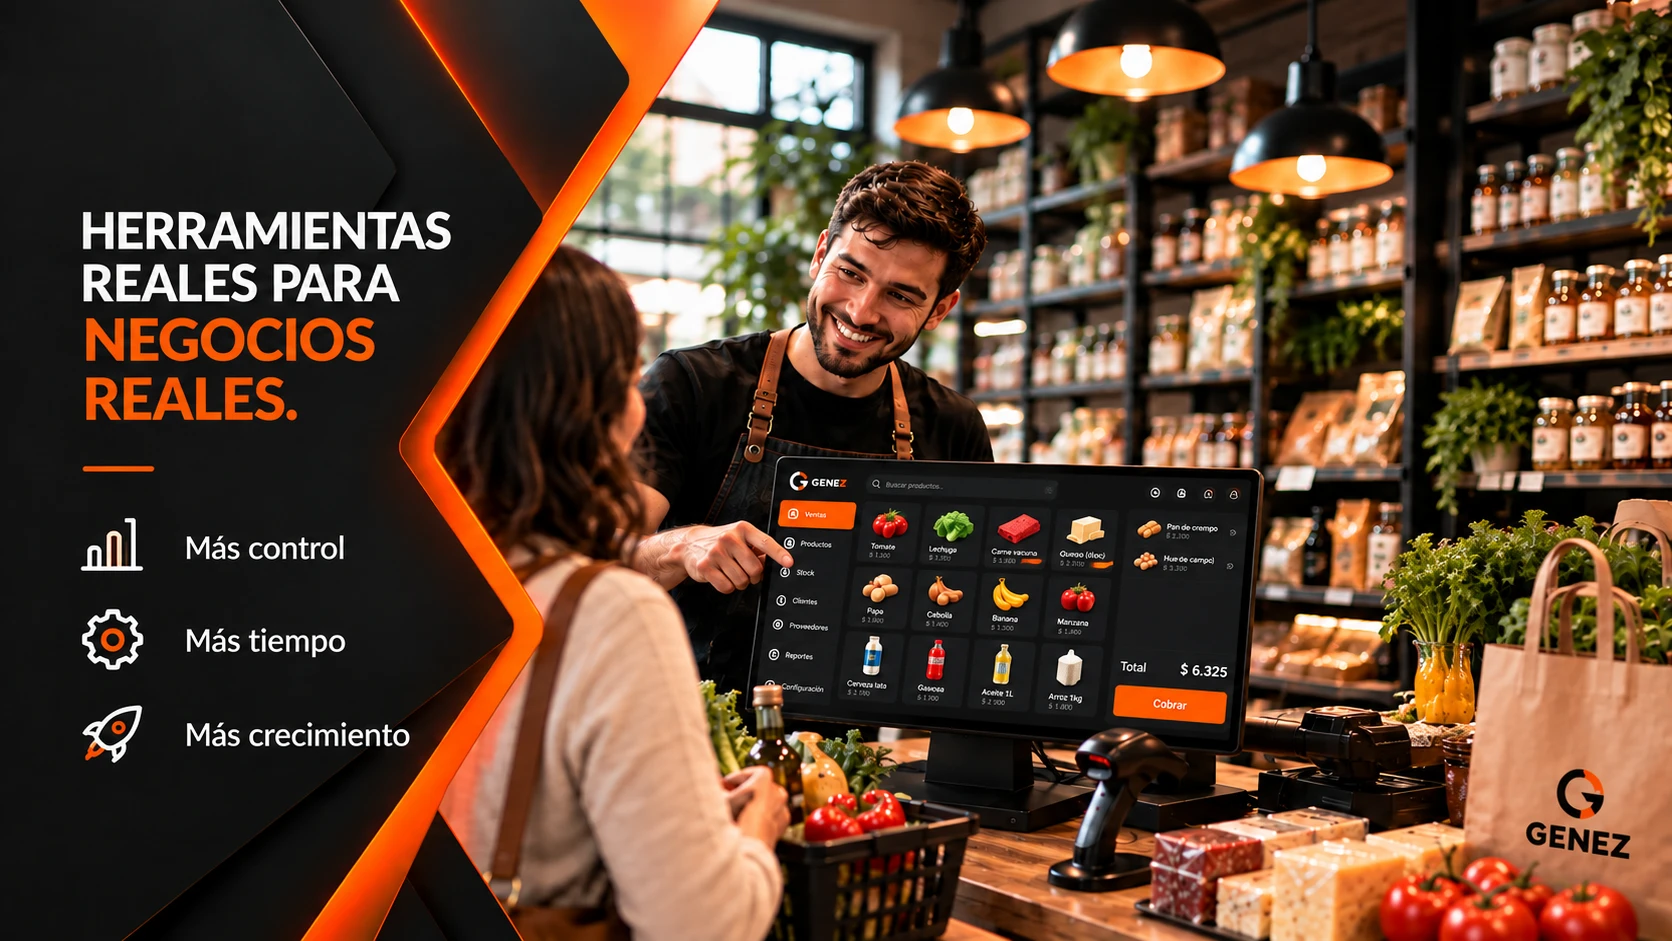
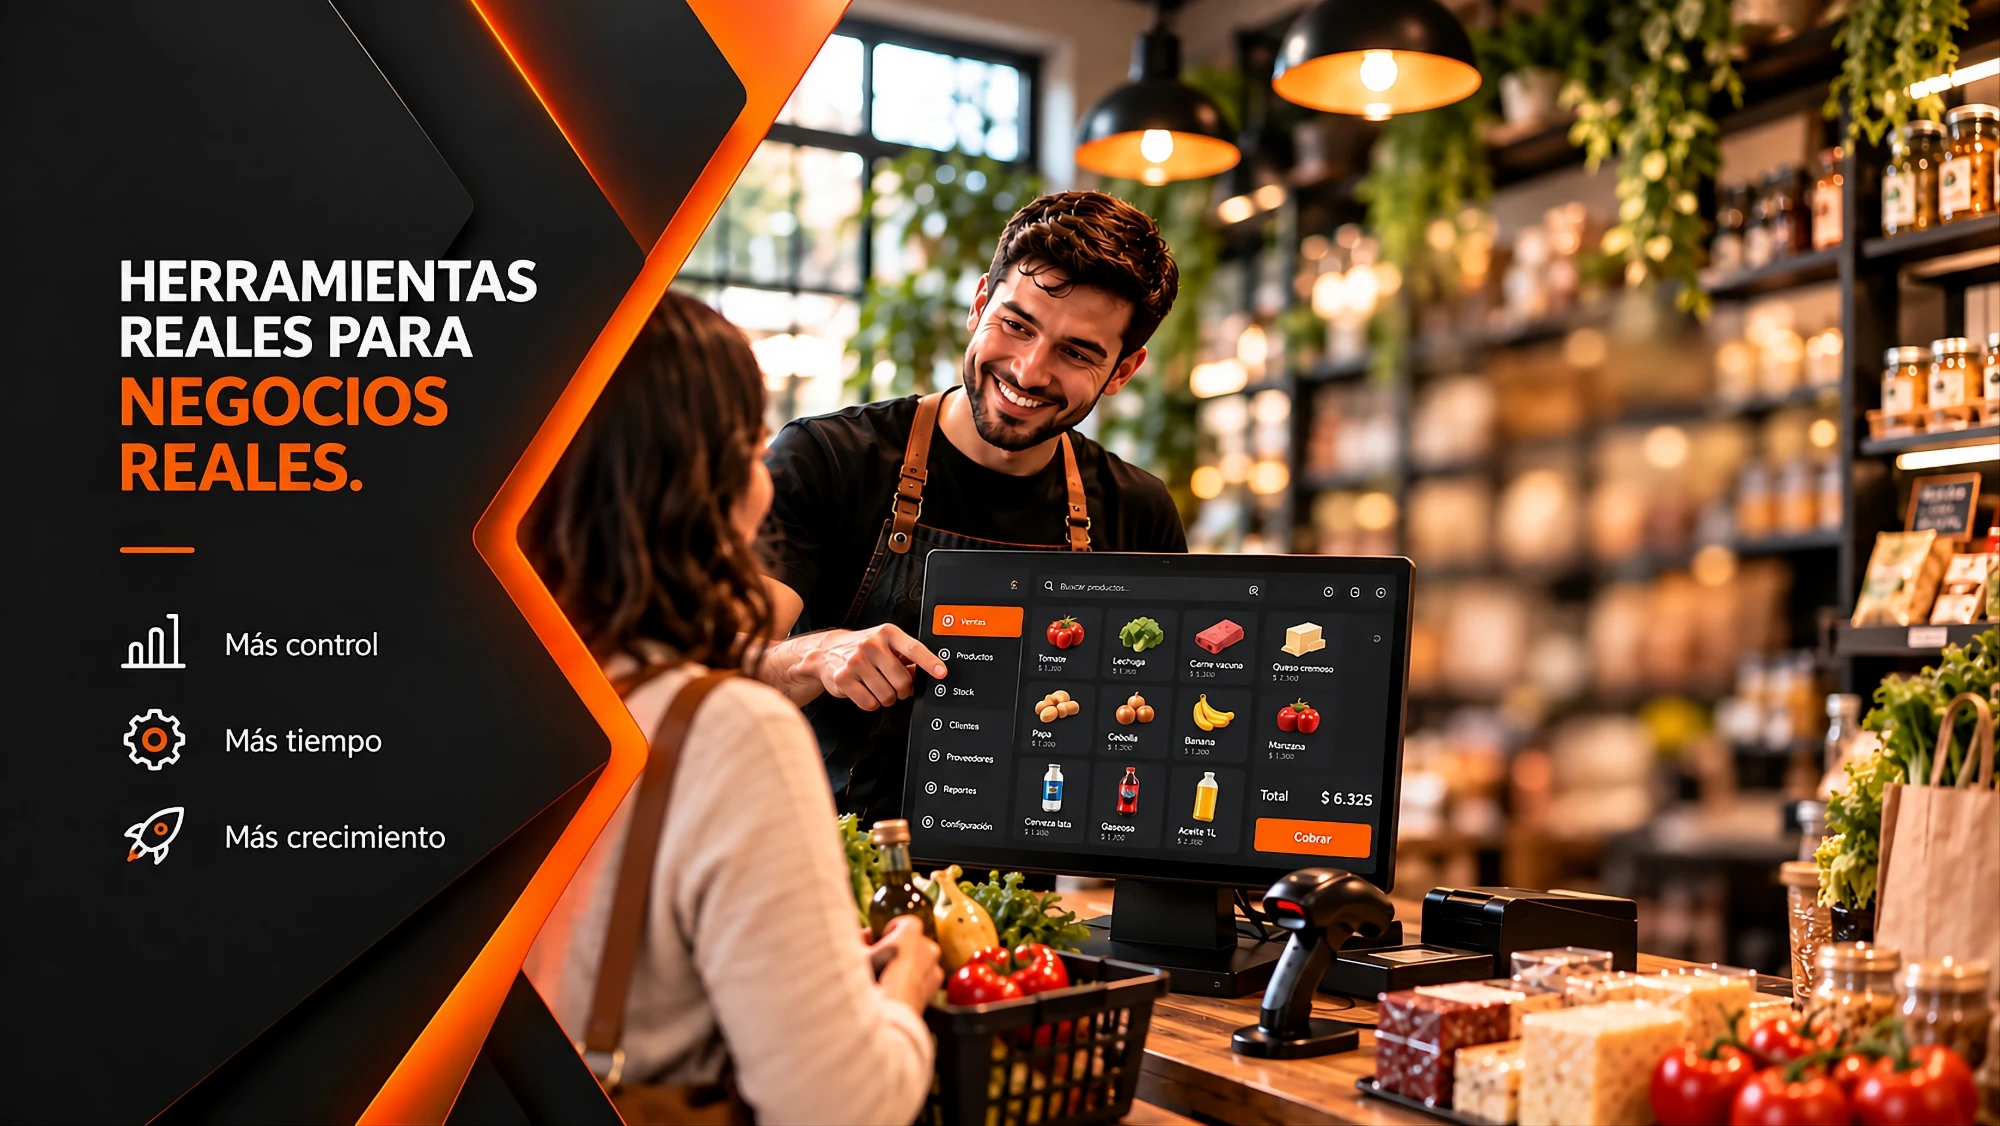
Login: la imagen nueva de Nehuen, tal cual, y la tarjeta encima
Nehuen rehizo el diseño (03/10) como pedimos: 2000x1126, el panel y el
texto más chicos, sin la tarjeta y con la derecha despejada entre el 64
y el 92% del ancho. Dibujar el panel en el código no quedaba como su
diseño; con la imagen bien armada no hace falta.

- Se va el panel en SVG y el texto en código (y los colores
  --sobre-foto, que eran para ese texto). La imagen va de borde a borde
  (object-left: en pantallas más angostas se recorta la derecha) y la
  tarjeta real encima, a 9vw del borde.
- A 1920 la imagen se muestra apenas más chica que su tamaño: nítida.
- Foto del login, en el panel, ahora pide el diseño entero con la zona
  de la tarjeta libre, no la escena sola.

Verificado en la pantalla de pruebas: a 1920x950 la tarjeta cae entre
el 71 y el 91% del ancho de la imagen, adentro de la zona libre; a
1280x720 también. Build sin errores.

diff --git a/src/genez/Entrada.jsx b/src/genez/Entrada.jsx
@@ -2,29 +2,25 @@
    LA PANTALLA DE ENTRADA · el marco del login y de "contraseña nueva"
    ============================================================
 
-   La maqueta del 03/10: una foto del local, un panel oscuro a la
-   izquierda con el borde naranja en flecha, el texto y tres puntos, y la
-   tarjeta blanca a la derecha. Armada en capas:
+   El diseño de Nehuen (03/10) es una imagen: la foto del local con el
+   panel oscuro, la flecha naranja y el texto ya armados, sin la tarjeta
+   (public/login/fondo-oscuro.webp, 2000x1126). Va de borde a borde tal
+   cual, y encima la tarjeta, que es de verdad.
 
-   1. La foto del local, de borde a borde. La sube Genez desde su panel
-      (src/datos/imagenLogin.js, 0128); si no hay, la de la maqueta.
-   2. El panel, dibujado entero en SVG: el fondo oscuro, las facetas, la
-      banda naranja y su brillo. No depende de la foto, así que cualquier
-      foto del local queda bien.
-   3. El texto, escrito de verdad.
-   4. La tarjeta, real, con `.tema-claro`: blanca aunque el sistema esté en
-      oscuro, sin escribir colores a mano.
+   Antes se probó dibujar el panel y escribir el texto en el código, para
+   poder achicarlos sin tocar la imagen: no quedaba como el diseño. La
+   imagen se hizo de nuevo con el texto más chico y la derecha despejada
+   (entre el 64 y el 92% del ancho), que es donde va la tarjeta.
 
-   El panel, el texto y la foto se miden contra una caja de 16:9 que cubre
-   la pantalla (--w). La foto de la maqueta es 16:9 y trae su propio panel
-   pegado: así el dibujado cae justo encima y lo tapa, banda incluida (la
-   del dibujo es más ancha a propósito; ver BANDA).
+   - Recortada desde la derecha (object-left): en una pantalla más
+     angosta que 16:9 se pierden estantes, nunca el panel ni el texto.
+   - La puede reemplazar Genez desde su panel (Foto del login, 0128) por
+     otra con el mismo diseño; si no hay, o no carga, queda esta.
+   - La tarjeta lleva `.tema-claro`: blanca aunque el sistema esté en
+     oscuro, sin escribir colores a mano.
+   - En el celular la imagen no entra: el texto va arriba y la tarjeta
+     abajo, sobre el fondo del tema.
 
-   Por qué así (pedidos de Nehuen del 03/10): la foto sola de borde a
-   borde dejaba el texto enorme; achicada, quedaban franjas; y tiene que
-   parecerse a la maqueta y poder cambiarse la foto por una mejor.
-
-   En el celular el panel no entra: el texto va arriba y la tarjeta abajo.
    La versión clara de la pantalla viene después. */
 
 import React, { useState } from "react";
@@ -38,95 +34,26 @@ const PUNTOS = [
   { icono: Rocket, texto: "Más crecimiento" },
 ];
 
-/* El centro de la banda naranja, en las coordenadas de la caja (1672x941).
-   Sale de relevar la de la foto de la maqueta fila por fila: arranca
-   arriba en 668, llega a la punta de la flecha en (424, 450), vuelve a
-   (530, 630) y termina abajo en 327. Con 52 de ancho cubre la de la foto
-   en todas las filas, así no se ven dos bandas. */
-const BANDA = "668,0 620,125 571,200 508,300 445,400 424,450 448,500 516,600 530,630 520,650 488,700 430,800 358,900 329,941";
-const PANEL = `0,0 ${BANDA} 0,941`;
-
-/* Los tamaños van contra el ancho de la caja: el texto siempre cae en el
-   mismo lugar del panel. */
-const T = (k) => `calc(var(--w) * ${k})`;
-
-function Panel() {
-  return (
-    <svg viewBox="0 0 1672 941" className="absolute inset-0 w-full h-full overflow-visible" aria-hidden="true">
-      <defs>
-        <linearGradient id="entrada-fondo" x1="0" y1="0" x2="0.55" y2="1">
-          <stop offset="0" stopColor="#1f1f1f" />
-          <stop offset="0.5" stopColor="#151515" />
-          <stop offset="1" stopColor="#0b0b0b" />
-        </linearGradient>
-        <linearGradient id="entrada-faceta" x1="0" y1="0" x2="1" y2="1">
-          <stop offset="0" stopColor="#2c2c2c" stopOpacity="0.95" />
-          <stop offset="1" stopColor="#2c2c2c" stopOpacity="0" />
-        </linearGradient>
-        <linearGradient id="entrada-banda" x1="0" y1="0" x2="0" y2="1">
-          <stop offset="0" stopColor="#ff8a2a" />
-          <stop offset="0.48" stopColor="#ff6a10" />
-          <stop offset="1" stopColor="#f24e00" />
-        </linearGradient>
-        <filter id="entrada-brillo" x="-20%" y="-20%" width="140%" height="140%">
-          <feGaussianBlur stdDeviation="22" />
-        </filter>
-      </defs>
-
-      {/* El brillo va primero: se derrama sobre la foto, detrás de todo. */}
-      <polyline points={BANDA} fill="none" stroke="#ff5a00" strokeOpacity="0.55" strokeWidth="96" strokeLinejoin="miter" filter="url(#entrada-brillo)" />
-
-      <polygon points={PANEL} fill="url(#entrada-fondo)" />
-      <polygon points="0,0 398,0 472,100 262,360 0,360" fill="url(#entrada-faceta)" />
-      <polygon points="0,560 300,560 420,941 0,941" fill="#000" fillOpacity="0.2" />
-      <line x1="400" y1="0" x2="472" y2="100" stroke="#ff6a1a" strokeOpacity="0.55" strokeWidth="4" />
-
-      <polyline points={BANDA} fill="none" stroke="url(#entrada-banda)" strokeWidth="52" strokeLinejoin="miter" strokeMiterlimit="8" />
-      {/* El filo claro del lado de adentro, que le da el relieve. */}
-      <polyline points={BANDA} fill="none" stroke="#ffc08a" strokeOpacity="0.7" strokeWidth="3" strokeLinejoin="miter" strokeMiterlimit="8" transform="translate(-24 0)" />
-    </svg>
-  );
-}
-
-/* La foto subida, y si no hay o no carga, la de la maqueta. Arranca
-   invisible y aparece al cargar, así no se ve una foto y después otra. */
-function Foto() {
+/* La imagen subida, y si no hay o no carga, la de fábrica. Arranca
+   invisible y aparece al cargar, así no se ve una y después otra. */
+function Fondo() {
   const [src, setSrc] = useState(() => urlFotoLogin() || FOTO_DE_FABRICA);
   const [lista, setLista] = useState(false);
   return (
     <img src={src} alt="" aria-hidden="true"
       onLoad={() => setLista(true)}
       onError={() => { if (src !== FOTO_DE_FABRICA) setSrc(FOTO_DE_FABRICA); }}
-      className={`absolute inset-0 w-full h-full max-w-none object-cover transition-opacity duration-500 ${lista ? "opacity-100" : "opacity-0"}`} />
+      className={`hidden lg:block absolute inset-0 w-full h-full max-w-none object-cover object-left transition-opacity duration-500 ${lista ? "opacity-100" : "opacity-0"}`} />
   );
 }
 
 export function MarcoEntrada({ children }) {
   return (
-    <div className="relative min-h-screen bg-fondo text-texto overflow-hidden" style={{ "--w": "max(100vw, calc(100vh * 1.7768))" }}>
-      <div className="hidden lg:block absolute left-0 top-1/2 -translate-y-1/2 w-[var(--w)] aspect-[1672/941]">
-        <Foto />
-        <Panel />
-      </div>
-
-      {/* El texto del panel, en la computadora. */}
-      <div className="hidden lg:block absolute top-1/2 -translate-y-1/2 text-sobre-foto" style={{ left: T(0.052) }}>
-        <h1 className="f-d font-extrabold uppercase leading-[1.03] tracking-[-0.01em]" style={{ fontSize: T(0.024) }}>
-          Herramientas<br />reales para<br /><span className="text-acento">negocios<br />reales.</span>
-        </h1>
-        <span className="block h-[3px] bg-acento" style={{ width: T(0.04), marginTop: T(0.02) }} aria-hidden="true" />
-        <ul style={{ marginTop: T(0.022) }}>
-          {PUNTOS.map(({ icono: I, texto }) => (
-            <li key={texto} className="flex items-center text-sobre-foto-suave" style={{ gap: T(0.013), marginTop: T(0.014), fontSize: T(0.0138) }}>
-              <I className="text-acento shrink-0" strokeWidth={1.6} style={{ width: T(0.02), height: T(0.02) }} />
-              {texto}
-            </li>
-          ))}
-        </ul>
-      </div>
+    <div className="relative min-h-screen bg-fondo text-texto overflow-hidden">
+      <Fondo />
 
       <div className="relative z-10 min-h-screen flex flex-col lg:block">
-        {/* En el celular, el mismo texto arriba de la tarjeta. */}
+        {/* En el celular, el texto de la imagen escrito arriba de la tarjeta. */}
         <div className="lg:hidden px-6 pt-10 pb-6">
           <h1 className="f-d text-[28px] leading-[1.05] font-extrabold uppercase">
             Herramientas reales para <span className="text-acento">negocios reales.</span>
@@ -139,9 +66,8 @@ export function MarcoEntrada({ children }) {
           </ul>
         </div>
 
+        {/* En la computadora, en la zona que la imagen deja libre. */}
         <div className="flex-1 flex items-start justify-center px-4 pb-8 lg:p-0 lg:absolute lg:top-1/2 lg:-translate-y-1/2 lg:right-[9vw]">
-          {/* Más grande que la anterior y más hacia el centro: lo más
-              importante de la pantalla (Nehuen, 03/10). */}
           <div className="relative tema-claro w-full max-w-[380px] lg:w-[clamp(340px,20vw,390px)] lg:max-w-none bg-superficie text-texto rounded-2xl shadow-2xl px-7 py-9 lg:px-9 lg:py-11">
             {children}
           </div>

diff --git a/src/genez/FotoLoginPanel.jsx b/src/genez/FotoLoginPanel.jsx
@@ -6,8 +6,9 @@
    del navegador: se perdía al cerrar sesión y nunca le llegaba al login.
    Ahora va a Storage y la ve cualquiera que abra el login.
 
-   La foto es solo el fondo: el panel oscuro con la flecha naranja, el
-   texto y la tarjeta los dibuja el sistema encima (src/genez/Entrada.jsx).
+   Lo que se sube es el diseño entero (foto, panel y texto) sin la
+   tarjeta: el sistema solo le pone encima la tarjeta para entrar, a la
+   derecha (src/genez/Entrada.jsx).
    ============================================================ */
 
 import React, { useRef, useState } from "react";
@@ -70,12 +71,13 @@ export function FotoLoginPanel() {
           </div>
           <div className="min-w-0 flex-1">
             <p className="text-sm text-texto-tenue">
-              El fondo del login. El sistema dibuja encima, a la izquierda, el panel oscuro con la flecha naranja y el
-              texto, y a la derecha la tarjeta para entrar.
+              El diseño entero del login (la foto, el panel y el texto) sin la tarjeta para entrar: el sistema la pone
+              encima, a la derecha.
             </p>
             <ul className="text-[11px] text-texto-suave mt-2 space-y-0.5">
-              <li><strong className="text-texto-tenue">Medida:</strong> 16:9, idealmente 2560 × 1440 o 3840 × 2160.</li>
-              <li><strong className="text-texto-tenue">Qué mostrar:</strong> la escena sola, sin textos ni logos encima. El tercio izquierdo queda tapado por el panel.</li>
+              <li><strong className="text-texto-tenue">Medida:</strong> 16:9, de 2000 × 1125 en adelante (ideal 2560 × 1440).</li>
+              <li><strong className="text-texto-tenue">Zona libre:</strong> entre el 64% y el 92% del ancho y el 22% y el 78% del alto va la tarjeta: nada importante ahí.</li>
+              <li><strong className="text-texto-tenue">Bordes:</strong> en pantallas más angostas se recorta la derecha; nada importante en el 10% de cada borde.</li>
               <li><strong className="text-texto-tenue">Peso:</strong> hasta 8 MB, en WebP o JPG.</li>
               <li>En el celular no se muestra: ahí va el texto arriba y la tarjeta abajo.</li>
             </ul>

diff --git a/src/index.css b/src/index.css
@@ -53,11 +53,6 @@
   --telon:       10 10 10;
   --sobre-telon: 168 162 158;
 
-  /* El texto que va sobre la foto del login (src/genez/Entrada.jsx).
-     Fijo por lo mismo que el telón: la foto es oscura en los dos temas. */
-  --sobre-foto:       250 250 249;
-  --sobre-foto-suave: 214 211 209;
-
   /* LAS MUESTRAS DEL LOGO
 
      En Ajustes, cada logo se muestra sobre el fondo en el que se va a

diff --git a/tailwind.config.js b/tailwind.config.js
@@ -25,8 +25,6 @@ export default {
 
         telon:        color("telon"),
         "sobre-telon": color("sobre-telon"),
-        "sobre-foto": color("sobre-foto"),
-        "sobre-foto-suave": color("sobre-foto-suave"),
         "muestra-oscura": color("muestra-oscura"),
         "muestra-clara": color("muestra-clara"),
         papel:        color("papel"),
